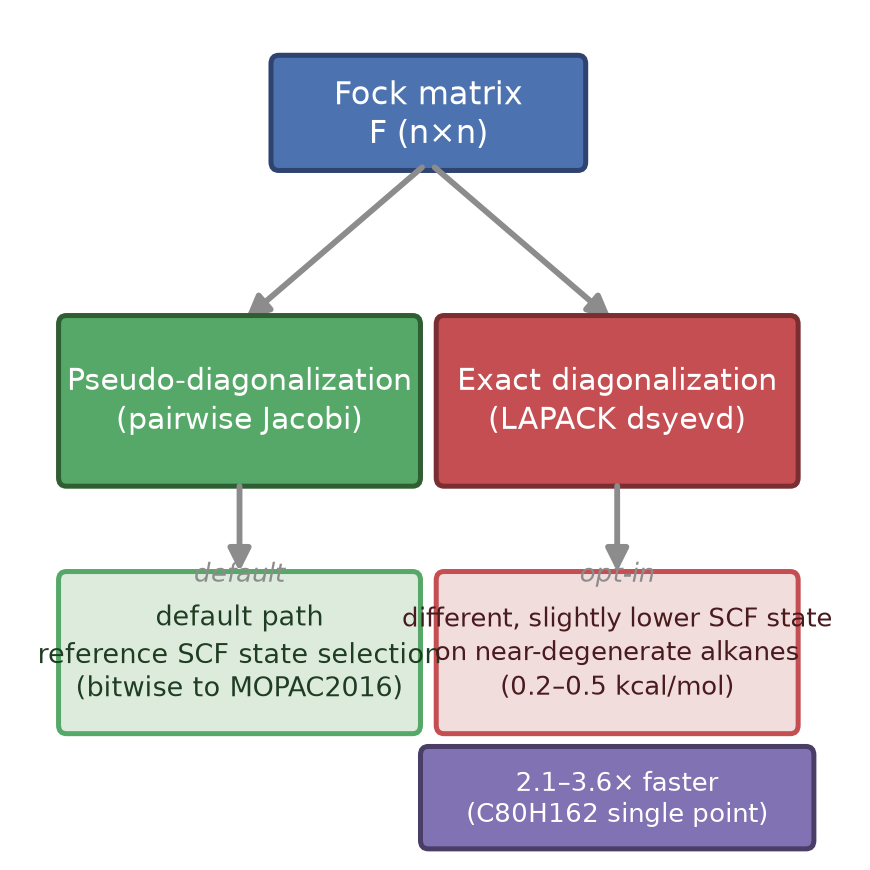
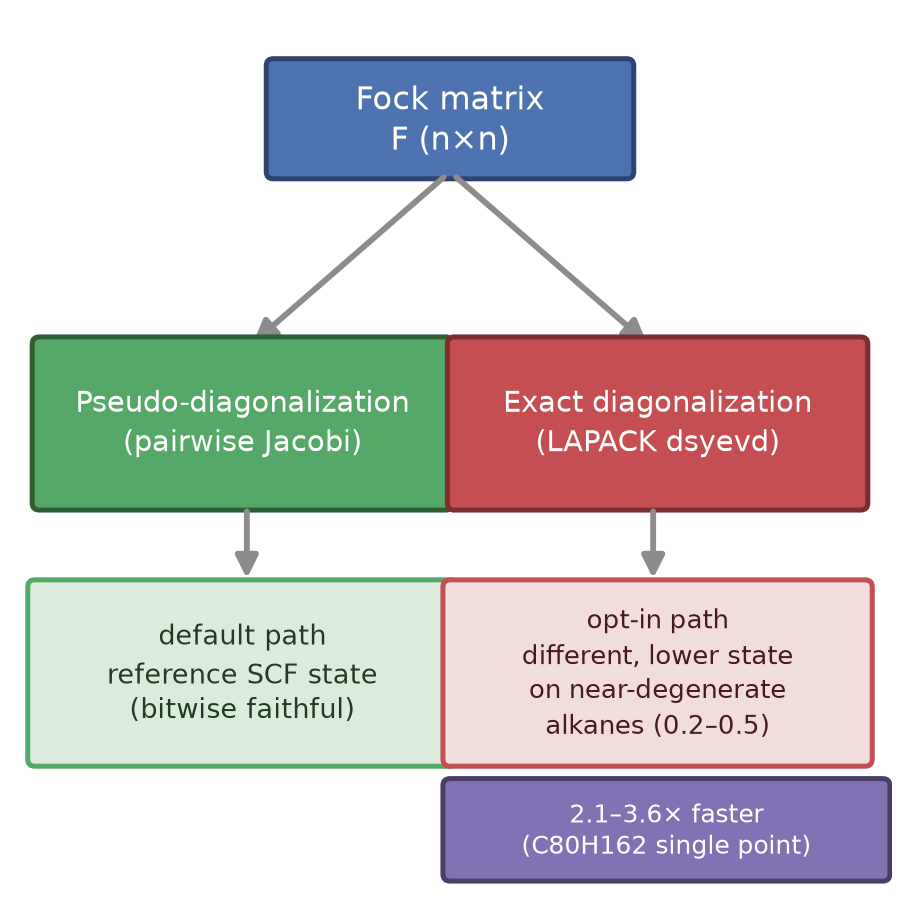
v4 final review fixes: whole-word subscripts in md2docx (N2), GTOC figure v3 without text overlap (N1), unify 349/349/327 corpus and 320/320 paired non-EF wording (N3-1/N3-2), README cmp_corpus usage (N3-3)

Changed region(s): [[0.0, 0.0621, 0.9931, 0.9931], [0.5586, 0.2483, 0.5897, 0.2793]]

diff --git a/mopac_cpp_public/docs/paper_cpc_manuscript.md b/mopac_cpp_public/docs/paper_cpc_manuscript.md
@@ -36,7 +36,7 @@ Migration of legacy Fortran scientific codes to modern languages is accelerating
 
 **Nature of problem (approx. 50–250 words):** MOPAC2016 is a widely used semiempirical quantum-chemistry package whose source consists of 679 Fortran files (~120,000 lines). Migrating such legacy codes to a modern language — by hand or by LLM agents — is increasingly common, yet standard validation only checks nominal numeric agreement, which cannot distinguish translation errors from intentional changes and cannot certify bitwise equivalence across runs, platforms, or thread counts. A second, independent problem is numerical non-reproducibility: parallel reductions reorder floating-point additions, and optimizers that project a gradient onto a (near-)degenerate eigenbasis are sensitive to the arbitrary basis returned by the eigensolver. Both mechanisms silently change scientific results. Methods that make a migrated code bitwise verifiable and numerically deterministic are required.
 
-**Solution method (approx. 50–250 words):** The 679 files were translated to C++17 subsystem by subsystem under hard constraints: 1-based semantics, invariant names/dimensions/initial values, and symbol-table/interface alignment before functional translation. Verification uses a layered pipeline (bitwise equality of symbol tables and interfaces; per-module numeric equality; end-to-end trajectory equality) with non-intrusive, environment-gated probes and a ULP-attribution protocol that localizes residual differences to a single floating-point operation and adjudicates library-instance discrepancies by replay. Two deterministic numerical methods arose from the verification: FBDR, a deterministic parallel reduction for Fock-matrix construction that is provably independent of thread count and scheduling, and GAB, a deterministic basis choice that restores reproducibility inside degenerate eigenspaces of the optimizer. Eighteen small molecules are bitwise identical to the reference in single-point mode on the RHF/UHF diagonalization path (320/320 single-point runs, zero exceptions). EF-optimized trajectories are bitwise identical within the verification build pair but 1-ULP build-sensitive (C₁₂H₂₆ 0.59, C₁₆H₃₄ 0.74 kcal/mol; §3.2). CCSD(T)/CBS atomization energies from a local GAMESS build validate physical accuracy against NIST.
+**Solution method (approx. 50–250 words):** The 679 files were translated to C++17 subsystem by subsystem under hard constraints: 1-based semantics, invariant names/dimensions/initial values, and symbol-table/interface alignment before functional translation. Verification uses a layered pipeline (bitwise equality of symbol tables and interfaces; per-module numeric equality; end-to-end trajectory equality) with non-intrusive, environment-gated probes and a ULP-attribution protocol that localizes residual differences to a single floating-point operation and adjudicates library-instance discrepancies by replay. Two deterministic numerical methods arose from the verification: FBDR, a deterministic parallel reduction for Fock-matrix construction that is provably independent of thread count and scheduling, and GAB, a deterministic basis choice that restores reproducibility inside degenerate eigenspaces of the optimizer. Eighteen small molecules are bitwise identical to the reference in single-point mode on the RHF/UHF diagonalization path (320/320 released-corpus paired non-EF runs, zero exceptions; 317 of the 349 released decks are 1SCF single points). EF-optimized trajectories are bitwise identical within the verification build pair but 1-ULP build-sensitive (C₁₂H₂₆ 0.59, C₁₆H₃₄ 0.74 kcal/mol; §3.2). CCSD(T)/CBS atomization energies from a local GAMESS build validate physical accuracy against NIST.
 
 **Additional comments including restrictions and unusual features (approx. 50–250 words):** All determinism gates (`MOPAC_DSPAR`/`MOPAC_DSPAR_NB` for FBDR, `MOPAC_GAB` for GAB) are off by default, so the default binary follows the bitwise-identical-to-reference path. Bitwise identity with the reference is established on Windows x64 (MSVC 2022, Intel MKL 2025.3, SSE2); cross-platform bitwise equality is not claimed — the framework, not the specific binary, is the portable contribution. The residual differences, 1-ULP-scale deviations in the gradient path, are adjudicated as scalar floating-point rounding (summation order and integer-power lowering by the two compilers) that are not removable at the source level; their amplification along the C₁₂H₂₆ and C₁₆H₃₄ EF trajectories is quantified in §3.2. The run command for bitwise comparison is `OMP_NUM_THREADS=1; MKL_NUM_THREADS=1; mopac.exe <input>.mop` (output redirected to `<input>.out`).
 
@@ -316,7 +316,7 @@ We formalize our practice as a three-level framework applicable to any scientifi
 
 | Level | Means | Reproducibility scope | This work |
 |---|---|---|---|
-| Tier 0 bitwise | source-semantic equivalence (1-based), fixed compilation (SSE2, no vectorization), fixed MKL instance, fixed diagonalization path (Jacobi-rotation eigensolver), FBDR | bitwise reproduction under full stack control | 18 molecules, single-point (RHF/UHF diagonalization path); 320/320 released-corpus single-point inputs, zero exceptions; C₁₂H₂₆ fixed-geometry single point; MOZYME stress case reported as an explicit exception (§3.1) |
+| Tier 0 bitwise | source-semantic equivalence (1-based), fixed compilation (SSE2, no vectorization), fixed MKL instance, fixed diagonalization path (Jacobi-rotation eigensolver), FBDR | bitwise reproduction under full stack control | 18 molecules, single-point (RHF/UHF diagonalization path); 320/320 released-corpus paired non-EF inputs, zero exceptions (317 of the 349 released decks are 1SCF single points); C₁₂H₂₆ fixed-geometry single point; MOZYME stress case reported as an explicit exception (§3.1) |
 | Tier 1 ULP | ULP-attribution protocol (§2.3) | localize residual rounding to specific floating-point operations, bound deviation by a ULP budget | C₁₂H₂₆ EF divergence (cycle 2 onward) traced to gradient-path 1-ULP-scale rounding |
 | Tier 2 physical | NIST experiments + GAMESS CCSD(T)/cc-pV{T,Q}Z CBS atomization energies | scientific validity | MAE ≈2.9 kcal/mol (CCSD(T) vs exp.); PM7 vs exp. −0.44 … +0.90 kcal/mol, with N₂ (−32.99) a known outlier (§3.5) |
 
@@ -350,7 +350,7 @@ The pipeline, the ULP-attribution protocol, and the two deterministic methods tr
 
 ## 5. Conclusion
 
-We presented a complete, bitwise-verified migration of MOPAC2016 from Fortran to C++17, together with a reusable verification pipeline, a ULP-attribution protocol, and two deterministic numerical methods. The pipeline achieved bitwise fidelity for eighteen small molecules in single-point mode (320/320 fixed-geometry runs, zero exceptions, on the RHF/UHF diagonalization path) and across CI, DRC, and multi-Hamiltonian trajectories; EF-optimized trajectories are bitwise identical within the verification build pair but 1-ULP build-sensitive (§3.2). It localized residual differences to compiler-level rounding in the gradient-assembly path and — through ULP scanning and cross single-point experiments on the 26- and 50-atom alkanes — exposed that EF optimization trajectories are chaotic at the 1-ULP level, with the C₁₆H₃₄ trajectory bifurcating to a distinct local minimum (0.74 kcal/mol) while the SCF layer remains bitwise identical. The degenerate-basis analysis showed why symmetric-molecule trajectories can be non-reproducible across library instances, and the GAB method makes the basis deterministic and preserves the trajectory bitwise on 24 molecules (verification build pair). FBDR makes parallel Fock construction deterministic and thread-count-independent with a formal error bound and a measured, bounded performance envelope (1.26–1.57× at 8 threads on large molecules, neutral on small ones; §3.6), and a systematic load-balancing study quantified why this envelope is the practical ceiling on commodity hardware. Together they provide a recipe for reproducible scientific software: verify bitwise, attribute ULPs, and make parallelism and degenerate subspaces deterministic. The translation, the probe instrumentation, and the two methods are released with the paper; the released regression corpus (349 inputs with recorded C++/Fortran outputs) and the driving comparison scripts are included in the repository (`regression/`).
+We presented a complete, bitwise-verified migration of MOPAC2016 from Fortran to C++17, together with a reusable verification pipeline, a ULP-attribution protocol, and two deterministic numerical methods. The pipeline achieved bitwise fidelity for eighteen small molecules in single-point mode (320/320 released-corpus paired non-EF runs, zero exceptions, on the RHF/UHF diagonalization path; 317 of the 349 released decks are 1SCF single points) and across CI, DRC, and multi-Hamiltonian trajectories; EF-optimized trajectories are bitwise identical within the verification build pair but 1-ULP build-sensitive (§3.2). It localized residual differences to compiler-level rounding in the gradient-assembly path and — through ULP scanning and cross single-point experiments on the 26- and 50-atom alkanes — exposed that EF optimization trajectories are chaotic at the 1-ULP level, with the C₁₆H₃₄ trajectory bifurcating to a distinct local minimum (0.74 kcal/mol) while the SCF layer remains bitwise identical. The degenerate-basis analysis showed why symmetric-molecule trajectories can be non-reproducible across library instances, and the GAB method makes the basis deterministic and preserves the trajectory bitwise on 24 molecules (verification build pair). FBDR makes parallel Fock construction deterministic and thread-count-independent with a formal error bound and a measured, bounded performance envelope (1.26–1.57× at 8 threads on large molecules, neutral on small ones; §3.6), and a systematic load-balancing study quantified why this envelope is the practical ceiling on commodity hardware. Together they provide a recipe for reproducible scientific software: verify bitwise, attribute ULPs, and make parallelism and degenerate subspaces deterministic. The translation, the probe instrumentation, and the two methods are released with the paper; the released regression corpus (349 inputs with recorded C++/Fortran outputs) and the driving comparison scripts are included in the repository (`regression/`).
 
 ## Reproducibility statement
 
@@ -379,7 +379,7 @@ This work was supported by the Basic Scientific Research Project for Higher Educ
 
 ## Data availability
 
-The C++17 translation, its released regression corpus (349 inputs with recorded C++/Fortran outputs, `regression/`), and the FBDR/GAB gate implementations are provided in the public repository linked in the Program Summary. GAMESS v2024.2.1 atom-basis inputs are included (`regression/abinitio`); the full per-molecule GAMESS input/output set and the atomization-energy reduction scripts are available from the authors on request; all reduced data appear in the tables and Appendix A.
+The C++17 translation, its released regression corpus (349 input decks with the 349 recorded C++ outputs and the 327 Fortran `.arc` summaries, `regression/`), and the FBDR/GAB gate implementations are provided in the public repository linked in the Program Summary. GAMESS v2024.2.1 atom-basis inputs are included (`regression/abinitio`); the full per-molecule GAMESS input/output set and the atomization-energy reduction scripts are available from the authors on request; all reduced data appear in the tables and Appendix A.
 
 ## Acknowledgements
 

diff --git a/mopac_cpp_public/docs/softwarex_manuscript.md b/mopac_cpp_public/docs/softwarex_manuscript.md
@@ -134,7 +134,7 @@ With FBDR enabled, the Fock-matrix reduction is partitioned into fixed buckets w
 
 ## 4. Impact
 
-**Fidelity.** On the nominal path the C++ build is bitwise identical to a local Intel-ifort rebuild of the official MOPAC2016 source: 18 small molecules (NH₃, HF, HCl, CO, N₂, CO₂, CH₂O, CH₃OH, H₂O, CH₄, SO₂, H₂S, PH₃, SiH₄, CH₃SH, CH₃Cl, O₂, CH₃) in single-point mode, with EF-optimized trajectories identical within the verification build pair; 320/320 released-corpus single-point inputs with zero exceptions; and CI, DRC, and multi-Hamiltonian (PM7/PM6/RM1) trajectories. The translation therefore contributes zero additional error at every level of the accompanying physical benchmark (NIST experimental heats of formation and GAMESS ¹² CCSD(T)/cc-pV{T,Q}Z CBS atomization energies; PM7's deviations from experiment are intrinsic parameterization errors, not migration errors).
+**Fidelity.** On the nominal path the C++ build is bitwise identical to a local Intel-ifort rebuild of the official MOPAC2016 source: 18 small molecules (NH₃, HF, HCl, CO, N₂, CO₂, CH₂O, CH₃OH, H₂O, CH₄, SO₂, H₂S, PH₃, SiH₄, CH₃SH, CH₃Cl, O₂, CH₃) in single-point mode, with EF-optimized trajectories identical within the verification build pair; 320/320 released-corpus paired non-EF inputs with zero exceptions (317 of the 349 released decks are 1SCF single points); and CI, DRC, and multi-Hamiltonian (PM7/PM6/RM1) trajectories. The translation therefore contributes zero additional error at every level of the accompanying physical benchmark (NIST experimental heats of formation and GAMESS ¹² CCSD(T)/cc-pV{T,Q}Z CBS atomization energies; PM7's deviations from experiment are intrinsic parameterization errors, not migration errors).
 
 **Performance.** On the same machine (AMD Ryzen 7 7840HS, 8 cores/16 threads, Windows x64) and workload (C₈₀H₁₆₂ PM7 RHF single point), MOPAC-CPP runs 1.85× faster than the reference rebuild with SSE2 + MKL and ≈2.5× with LTCG. With FBDR, deterministic parallelism adds 1.15–1.26× on C₈₀H₁₆₂ and 1.57× on C₁₂₀H₂₄₂ at 8 threads while remaining bitwise identical across thread counts. The optional FULLDIAG exact-diagonalization gate additionally targets large single points; its fidelity–performance trade-off is characterized in the companion study ¹⁴ on exact versus pseudo diagonalization.
 

diff --git a/mopac_cpp_public/regression/README.md b/mopac_cpp_public/regression/README.md
@@ -36,8 +36,7 @@ Hence the "320/320 released-regression paired non-EF inputs, zero exceptions"
 statement in the manuscripts refers to the 320 paired non-EF inputs
 reproduced bitwise (317 of the 349 released decks are 1SCF single points).
 The comparison is reproduced by
-`cmp_corpus.py` in this directory (run `python cmp_corpus.py` after
-regenerating outputs into `out_cpp/`).
+`cmp_corpus.py` in this directory (run `python cmp_corpus.py`).
 
 ## Provenance
 
